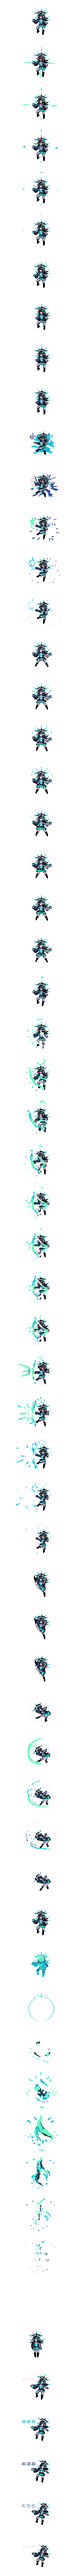
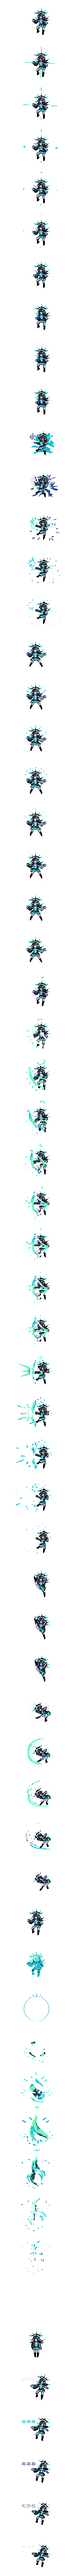
what

Changed region(s): [[0.3916, 0.7188, 0.6928, 0.875], [0.3916, 0.25, 0.6627, 0.375]]

diff --git a/NPCs/Bosses/GothiviaTheSun/GOS/GothiviaIyx.cs b/NPCs/Bosses/GothiviaTheSun/GOS/GothiviaIyx.cs
@@ -148,7 +148,7 @@ namespace Stellamod.NPCs.Bosses.GothiviaTheSun.GOS
             // DisplayName.SetDefault("Verlia of The Moon");
 
             Main.npcFrameCount[Type] = 61;
-            NPCID.Sets.TrailCacheLength[NPC.type] = 24;
+            NPCID.Sets.TrailCacheLength[NPC.type] = 32;
             NPCID.Sets.TrailingMode[NPC.type] = 3;
 
             // Add this in for bosses that have a summon item, requires corresponding code in the item (See MinionBossSummonItem.cs)
@@ -260,13 +260,13 @@ namespace Stellamod.NPCs.Bosses.GothiviaTheSun.GOS
                     ChargeTrailOpacity = 1;
             }
 
-            Color color = Color.OrangeRed;
+            Color color = Color.Lerp(Color.Turquoise, Color.RoyalBlue, completionRatio);
             return color * ChargeTrailOpacity * (1f - completionRatio);
         }
 
         public float WidthFunctionCharge(float completionRatio)
         {
-            return (((NPC.width * NPC.scale) * 2) / 0.75f * (1f - completionRatio)) * 0.4f;
+            return (((NPC.width * NPC.scale) * 2) / 0.75f * (1f - completionRatio)) * 1.5f;
         }
 
         public PrimDrawer TrailDrawer { get; private set; } = null;
@@ -276,12 +276,12 @@ namespace Stellamod.NPCs.Bosses.GothiviaTheSun.GOS
 
             if (TrailDrawer == null)
             {
-                TrailDrawer = new PrimDrawer(WidthFunctionCharge, ColorFunctionCharge, GameShaders.Misc["VampKnives:BasicTrail"]);
+                TrailDrawer = new PrimDrawer(WidthFunctionCharge, ColorFunctionCharge, TrailRegistry.FireVertexShader);
             }
 
-            GameShaders.Misc["VampKnives:BasicTrail"].SetShaderTexture(TrailRegistry.WaterTrail);
+            TrailRegistry.FireVertexShader.SetShaderTexture(TrailRegistry.WaterTrail);
             Vector2 size = new Vector2(166, 96);
-            TrailDrawer.DrawPrims(NPC.oldPos, size * 0.8f - screenPos, 155);
+            TrailDrawer.DrawPrims(NPC.oldPos, size * 0.5f - screenPos, 155);
 
 
             Player player = Main.player[NPC.target];
@@ -309,13 +309,13 @@ namespace Stellamod.NPCs.Bosses.GothiviaTheSun.GOS
             if (ThreeQ && !FourQ && !NoWings)
             {
                 Vector2 drawPosition = NPC.Center - screenPos;
-                Vector2 origin = new Vector2(74, 74);
+                Vector2 origin = new Vector2(83, 48);
                 Texture2D syliaWingsTexture = ModContent.Request<Texture2D>("Stellamod/NPCs/Bosses/GothiviaTheSun/GOS/Gwings3Q").Value;
                 int wingFrameSpeed = 1;
                 int wingFrameCount = 60;
                 spriteBatch.Draw(syliaWingsTexture, drawPosition,
                     syliaWingsTexture.AnimationFrame(ref _wingFrameCounter, ref _wingFrameTick, wingFrameSpeed, wingFrameCount, true),
-                    drawColor, 0f, origin, 2f, effects, 0f);
+                    drawColor, NPC.rotation, origin, 2f, effects, 0f);
 
             }
 
@@ -323,13 +323,13 @@ namespace Stellamod.NPCs.Bosses.GothiviaTheSun.GOS
             if (FourQ && !ThreeQ && !NoWings)
             {
                 Vector2 drawPosition = NPC.Center - screenPos;
-                Vector2 origin = new Vector2(83, 68);
+                Vector2 origin = new Vector2(83, 48);
                 Texture2D syliaWingsTexture = ModContent.Request<Texture2D>("Stellamod/NPCs/Bosses/GothiviaTheSun/GOS/Gwings4Q").Value;
                 int wingFrameSpeed = 1;
                 int wingFrameCount = 60;
                 spriteBatch.Draw(syliaWingsTexture, drawPosition,
                     syliaWingsTexture.AnimationFrame(ref _wingFrameCounter, ref _wingFrameTick, wingFrameSpeed, wingFrameCount, true),
-                    drawColor, 0f, origin, 2f, effects, 0f);
+                    drawColor, NPC.rotation, origin, 2f, effects, 0f);
 
             }
 
@@ -386,57 +386,57 @@ namespace Stellamod.NPCs.Bosses.GothiviaTheSun.GOS
 
                 case ActionState.ReallyStartIrr:
                     rect = new(0, 32 * 146, 206, 1 * 146);
-                    spriteBatch.Draw(texture, NPC.position - screenPos - originalHitbox, texture.AnimationFrame(ref frameCounter, ref frameTick, 8, 1, rect), drawColor, 0f, Vector2.Zero, 1f, effects, 0f);
+                    spriteBatch.Draw(texture, NPC.Center - screenPos, texture.AnimationFrame(ref frameCounter, ref frameTick, 8, 1, rect), drawColor, 0f, Vector2.Zero, 1f, effects, 0f);
                     break;
 
                 case ActionState.StartIrr:
                     rect = new(0, 32 * 146, 206, 1 * 146);
-                    spriteBatch.Draw(texture, NPC.position - screenPos - originalHitbox, texture.AnimationFrame(ref frameCounter, ref frameTick, 8, 1, rect), drawColor, 0f, Vector2.Zero, 1f, effects, 0f);
+                    spriteBatch.Draw(texture, NPC.Center - screenPos, texture.AnimationFrame(ref frameCounter, ref frameTick, 8, 1, rect), drawColor, 0f, Vector2.Zero, 1f, effects, 0f);
                     break;
 
                 case ActionState.HideIrr:
                     rect = new(0, 32 * 146, 206, 1 * 146);
-                    spriteBatch.Draw(texture, NPC.position - screenPos - originalHitbox, texture.AnimationFrame(ref frameCounter, ref frameTick, 8, 1, rect), drawColor, 0f, Vector2.Zero, 1f, effects, 0f);
+                    spriteBatch.Draw(texture, NPC.Center - screenPos, texture.AnimationFrame(ref frameCounter, ref frameTick, 8, 1, rect), drawColor, 0f, Vector2.Zero, 1f, effects, 0f);
                     break;
 
                 case ActionState.Blastout:
                     rect = new(0, 18 * 146, 206, 5 * 146);
-                    spriteBatch.Draw(texture, NPC.position - screenPos - originalHitbox, texture.AnimationFrame(ref frameCounter, ref frameTick, 8, 5, rect), drawColor, 0f, Vector2.Zero, 1f, effects, 0f);
+                    spriteBatch.Draw(texture, NPC.Center - screenPos, texture.AnimationFrame(ref frameCounter, ref frameTick, 8, 5, rect), drawColor, 0f, Vector2.Zero, 1f, effects, 0f);
                     break;
 
                 case ActionState.FallingBlast:
                     rect = new(0, 24 * 146, 206, 1 * 146);
-                    spriteBatch.Draw(texture, NPC.position - screenPos - originalHitbox, texture.AnimationFrame(ref frameCounter, ref frameTick, 8, 1, rect), drawColor, 0f, Vector2.Zero, 1f, effects, 0f);
+                    spriteBatch.Draw(texture, NPC.Center - screenPos, texture.AnimationFrame(ref frameCounter, ref frameTick, 8, 1, rect), drawColor, 0f, Vector2.Zero, 1f, effects, 0f);
                     break;
 
                 case ActionState.STARTNODES:
                     rect = new(0, 32 * 146, 206, 1 * 146);
-                    spriteBatch.Draw(texture, NPC.position - screenPos - originalHitbox, texture.AnimationFrame(ref frameCounter, ref frameTick, 8, 1, rect), drawColor, 0f, Vector2.Zero, 1f, effects, 0f);
+                    spriteBatch.Draw(texture, NPC.Center - screenPos, texture.AnimationFrame(ref frameCounter, ref frameTick, 8, 1, rect), drawColor, 0f, Vector2.Zero, 1f, effects, 0f);
                     break;
 
                 case ActionState.STARTAXE:
                     rect = new(0, 32 * 146, 206, 1 * 146);
-                    spriteBatch.Draw(texture, NPC.position - screenPos - originalHitbox, texture.AnimationFrame(ref frameCounter, ref frameTick, 8, 1, rect), drawColor, 0f, Vector2.Zero, 1f, effects, 0f);
+                    spriteBatch.Draw(texture, NPC.Center - screenPos, texture.AnimationFrame(ref frameCounter, ref frameTick, 8, 1, rect), drawColor, 0f, Vector2.Zero, 1f, effects, 0f);
                     break;
 
                 case ActionState.STARTLASER:
                     rect = new(0, 32 * 146, 206, 1 * 146);
-                    spriteBatch.Draw(texture, NPC.position - screenPos - originalHitbox, texture.AnimationFrame(ref frameCounter, ref frameTick, 8, 1, rect), drawColor, 0f, Vector2.Zero, 1f, effects, 0f);
+                    spriteBatch.Draw(texture, NPC.Center - screenPos, texture.AnimationFrame(ref frameCounter, ref frameTick, 8, 1, rect), drawColor, 0f, Vector2.Zero, 1f, effects, 0f);
                     break;
 
                 case ActionState.STARTSPIKE:
                     rect = new(0, 32 * 146, 206, 1 * 146);
-                    spriteBatch.Draw(texture, NPC.position - screenPos - originalHitbox, texture.AnimationFrame(ref frameCounter, ref frameTick, 8, 1, rect), drawColor, 0f, Vector2.Zero, 1f, effects, 0f);
+                    spriteBatch.Draw(texture, NPC.Center - screenPos, texture.AnimationFrame(ref frameCounter, ref frameTick, 8, 1, rect), drawColor, 0f, Vector2.Zero, 1f, effects, 0f);
                     break;
 
                 case ActionState.CallHavoc:
                     rect = new(0, 1 * 146, 206, 17 * 146);
-                    spriteBatch.Draw(texture, NPC.position - screenPos - originalHitbox, texture.AnimationFrame(ref frameCounter, ref frameTick, 4, 17, rect), drawColor, 0f, Vector2.Zero, 1f, effects, 0f);
+                    spriteBatch.Draw(texture, NPC.Center - screenPos, texture.AnimationFrame(ref frameCounter, ref frameTick, 4, 17, rect), drawColor, 0f, Vector2.Zero, 1f, effects, 0f);
                     break;
 
                 case ActionState.LandIrr:
                     rect = new(0, 26 * 146, 206, 5 * 146);
-                    spriteBatch.Draw(texture, NPC.position - screenPos - originalHitbox, texture.AnimationFrame(ref frameCounter, ref frameTick, 8, 5, rect), drawColor, 0f, Vector2.Zero, 1f, effects, 0f);
+                    spriteBatch.Draw(texture, NPC.Center - screenPos, texture.AnimationFrame(ref frameCounter, ref frameTick, 8, 5, rect), drawColor, 0f, Vector2.Zero, 1f, effects, 0f);
                     break;
 
 
@@ -455,99 +455,99 @@ namespace Stellamod.NPCs.Bosses.GothiviaTheSun.GOS
 
                 case ActionState.ReallyStartGoth:
                     rect = new(0, 16 * 96, 166, 7 * 96);
-                    spriteBatch.Draw(texture, NPC.position - screenPos - originalHitbox, texture.AnimationFrame(ref frameCounter,  ref frameTick, 7, 7, rect), drawColor, NPC.rotation, NPC.frame.Size() / 2, 2f, effects, 0f);
+                    spriteBatch.Draw(texture, NPC.Center - screenPos, texture.AnimationFrame(ref frameCounter,  ref frameTick, 7, 7, rect), drawColor, NPC.rotation, NPC.frame.Size() / 2, 2f, effects, 0f);
                     break;
 
 
 
                 case ActionState.StartGoth:
                     rect = new(0, 16 * 96, 166, 7 * 96);
-                    spriteBatch.Draw(texture, NPC.position - screenPos - originalHitbox, texture.AnimationFrame(ref frameCounter,  ref frameTick, 7, 7, rect), drawColor, NPC.rotation, NPC.frame.Size() / 2, 2f, effects, 0f);
+                    spriteBatch.Draw(texture, NPC.Center - screenPos, texture.AnimationFrame(ref frameCounter,  ref frameTick, 7, 7, rect), drawColor, NPC.rotation, NPC.frame.Size() / 2, 2f, effects, 0f);
                     break;
 
                 case ActionState.Desperation:
                     rect = new(0, 16 * 96, 166, 7 * 96);
-                    spriteBatch.Draw(texture, NPC.position - screenPos - originalHitbox, texture.AnimationFrame(ref frameCounter, ref frameTick, 5, 7, rect), drawColor, NPC.rotation, NPC.frame.Size() / 2, 2f, effects, 0f);
+                    spriteBatch.Draw(texture, NPC.Center - screenPos, texture.AnimationFrame(ref frameCounter, ref frameTick, 5, 7, rect), drawColor, NPC.rotation, NPC.frame.Size() / 2, 2f, effects, 0f);
                     break;
 
                 case ActionState.Suns1:
                     rect = new(0, 16 * 96, 166, 7 * 96);
-                    spriteBatch.Draw(texture, NPC.position - screenPos - originalHitbox, texture.AnimationFrame(ref frameCounter, ref frameTick, 8, 7, rect), drawColor, NPC.rotation, NPC.frame.Size() / 2, 2f, effects, 0f);
+                    spriteBatch.Draw(texture, NPC.Center - screenPos, texture.AnimationFrame(ref frameCounter, ref frameTick, 8, 7, rect), drawColor, NPC.rotation, NPC.frame.Size() / 2, 2f, effects, 0f);
                     break;
 
                 case ActionState.Suns2:
                     rect = new(0, 16 * 96, 166, 7 * 96);
-                    spriteBatch.Draw(texture, NPC.position - screenPos - originalHitbox, texture.AnimationFrame(ref frameCounter, ref frameTick, 8, 7, rect), drawColor, NPC.rotation, NPC.frame.Size() / 2, 2f, effects, 0f);
+                    spriteBatch.Draw(texture, NPC.Center - screenPos, texture.AnimationFrame(ref frameCounter, ref frameTick, 8, 7, rect), drawColor, NPC.rotation, NPC.frame.Size() / 2, 2f, effects, 0f);
                     break;
 
                 case ActionState.SunExplosionCharge1:
                     rect = new(0, 16 * 96, 166, 7 * 96);
-                    spriteBatch.Draw(texture, NPC.position - screenPos - originalHitbox, texture.AnimationFrame(ref frameCounter, ref frameTick, 8, 7, rect), drawColor, NPC.rotation, NPC.frame.Size() / 2, 2f, effects, 0f);
+                    spriteBatch.Draw(texture, NPC.Center - screenPos, texture.AnimationFrame(ref frameCounter, ref frameTick, 8, 7, rect), drawColor, NPC.rotation, NPC.frame.Size() / 2, 2f, effects, 0f);
                     break;
 
                 case ActionState.SunExplosionCharge2:
                     rect = new(0, 16 * 96, 166, 7 * 96);
-                    spriteBatch.Draw(texture, NPC.position - screenPos - originalHitbox, texture.AnimationFrame(ref frameCounter, ref frameTick, 8, 7, rect), drawColor, NPC.rotation, NPC.frame.Size() / 2, 2f, effects, 0f);
+                    spriteBatch.Draw(texture, NPC.Center - screenPos, texture.AnimationFrame(ref frameCounter, ref frameTick, 8, 7, rect), drawColor, NPC.rotation, NPC.frame.Size() / 2, 2f, effects, 0f);
                     break;
 
                 case ActionState.Invisible:
                     rect = new(0, 54 * 96, 166, 1 * 96);
-                    spriteBatch.Draw(texture, NPC.position - screenPos - originalHitbox, texture.AnimationFrame(ref frameCounter, ref frameTick, 200, 1, rect), drawColor, NPC.rotation, NPC.frame.Size() / 2, 2f, effects, 0f);
+                    spriteBatch.Draw(texture, NPC.Center - screenPos, texture.AnimationFrame(ref frameCounter, ref frameTick, 200, 1, rect), drawColor, NPC.rotation, NPC.frame.Size() / 2, 2f, effects, 0f);
                     break;
 
                 case ActionState.BonfireLeft:
                     rect = new(0, 54 * 96, 166, 1 * 96);
-                    spriteBatch.Draw(texture, NPC.position - screenPos - originalHitbox, texture.AnimationFrame(ref frameCounter, ref frameTick, 200, 1, rect), drawColor, NPC.rotation, NPC.frame.Size() / 2, 2f, effects, 0f);
+                    spriteBatch.Draw(texture, NPC.Center - screenPos, texture.AnimationFrame(ref frameCounter, ref frameTick, 200, 1, rect), drawColor, NPC.rotation, NPC.frame.Size() / 2, 2f, effects, 0f);
                     break;
 
                 case ActionState.BonfireRight:
                     rect = new(0, 54 * 96, 166, 1 * 96);
-                    spriteBatch.Draw(texture, NPC.position - screenPos - originalHitbox, texture.AnimationFrame(ref frameCounter, ref frameTick, 200, 1, rect), drawColor, NPC.rotation, NPC.frame.Size() / 2, 2f, effects, 0f);
+                    spriteBatch.Draw(texture, NPC.Center - screenPos, texture.AnimationFrame(ref frameCounter, ref frameTick, 200, 1, rect), drawColor, NPC.rotation, NPC.frame.Size() / 2, 2f, effects, 0f);
                     break;
 
                 case ActionState.TheZoomer:
                     rect = new(0, 55 * 96, 166, 1 * 96);
-                    spriteBatch.Draw(texture, NPC.position - screenPos - originalHitbox, texture.AnimationFrame(ref frameCounter, ref frameTick, 400, 1, rect), drawColor, NPC.rotation, NPC.frame.Size() / 2, 2f, effects, 0f);
+                    spriteBatch.Draw(texture, NPC.Center - screenPos, texture.AnimationFrame(ref frameCounter, ref frameTick, 400, 1, rect), drawColor, NPC.rotation, NPC.frame.Size() / 2, 2f, effects, 0f);
                     break;
 
                 case ActionState.BoostBounce1:
                     rect = new(0, 16 * 96, 166, 7 * 96);
-                    spriteBatch.Draw(texture, NPC.position - screenPos - originalHitbox, texture.AnimationFrame(ref frameCounter, ref frameTick, 5, 7, rect), drawColor, NPC.rotation, NPC.frame.Size() / 2, 2f, effects, 0f);
+                    spriteBatch.Draw(texture, NPC.Center - screenPos, texture.AnimationFrame(ref frameCounter, ref frameTick, 5, 7, rect), drawColor, NPC.rotation, NPC.frame.Size() / 2, 2f, effects, 0f);
                     break;
 
                 case ActionState.BoostBounce2:
                     rect = new(0, 57 * 96, 166, 4 * 96);
-                    spriteBatch.Draw(texture, NPC.position - screenPos - originalHitbox, texture.AnimationFrame(ref frameCounter, ref frameTick, 8, 4, rect), drawColor, NPC.rotation, NPC.frame.Size() / 2, 2f, effects, 0f);
+                    spriteBatch.Draw(texture, NPC.Center - screenPos, texture.AnimationFrame(ref frameCounter, ref frameTick, 8, 4, rect), drawColor, NPC.rotation, NPC.frame.Size() / 2, 2f, effects, 0f);
                     break;
 
                 case ActionState.BoostBounce3:
                     rect = new(0, 38 * 96, 166, 7 * 96);
-                    spriteBatch.Draw(texture, NPC.position - screenPos - originalHitbox, texture.AnimationFrame(ref frameCounter,  ref frameTick, 5, 7, rect), drawColor, NPC.rotation, NPC.frame.Size() / 2, 2f, effects, 0f);
+                    spriteBatch.Draw(texture, NPC.Center - screenPos, texture.AnimationFrame(ref frameCounter,  ref frameTick, 5, 7, rect), drawColor, NPC.rotation, NPC.frame.Size() / 2, 2f, effects, 0f);
                     break;
 
                 case ActionState.Kick:
                     rect = new(0, 38 * 96, 166, 7 * 96);
-                    spriteBatch.Draw(texture, NPC.position - screenPos - originalHitbox, texture.AnimationFrame(ref frameCounter,  ref frameTick, 7, 7, rect), drawColor, NPC.rotation, NPC.frame.Size() / 2, 2f, effects, 0f);
+                    spriteBatch.Draw(texture, NPC.Center - screenPos, texture.AnimationFrame(ref frameCounter,  ref frameTick, 7, 7, rect), drawColor, NPC.rotation, NPC.frame.Size() / 2, 2f, effects, 0f);
                     break;
 
                 case ActionState.StandCuss:
                     rect = new(0, 57 * 96, 166, 4 * 96);
-                    spriteBatch.Draw(texture, NPC.position - screenPos - originalHitbox, texture.AnimationFrame(ref frameCounter, ref frameTick, 8, 4, rect), drawColor, NPC.rotation, NPC.frame.Size() / 2, 2f, effects, 0f);
+                    spriteBatch.Draw(texture, NPC.Center - screenPos, texture.AnimationFrame(ref frameCounter, ref frameTick, 8, 4, rect), drawColor, NPC.rotation, NPC.frame.Size() / 2, 2f, effects, 0f);
                     break;
 
                 case ActionState.Dichotamy:
                     rect = new(0, 1 * 96, 166, 14 * 96);
-                    spriteBatch.Draw(texture, NPC.position - screenPos - originalHitbox, texture.AnimationFrame(ref frameCounter, ref frameTick, 8, 14, rect), drawColor, NPC.rotation, NPC.frame.Size() / 2, 2f, effects, 0f);
+                    spriteBatch.Draw(texture, NPC.Center - screenPos, texture.AnimationFrame(ref frameCounter, ref frameTick, 8, 14, rect), drawColor, NPC.rotation, NPC.frame.Size() / 2, 2f, effects, 0f);
                     break;
 
                 case ActionState.Archery:
                     rect = new(0, 24 * 96, 166, 13 * 96);
-                    spriteBatch.Draw(texture, NPC.position - screenPos - originalHitbox, texture.AnimationFrame(ref frameCounter, ref frameTick, 5, 13, rect), drawColor, NPC.rotation, NPC.frame.Size() / 2, 2f, effects, 0f);
+                    spriteBatch.Draw(texture, NPC.Center - screenPos, texture.AnimationFrame(ref frameCounter, ref frameTick, 5, 13, rect), drawColor, NPC.rotation, NPC.frame.Size() / 2, 2f, effects, 0f);
                     break;
 
                 case ActionState.ExplodeOut:
                     rect = new(0, 46 * 96, 166, 9 * 96);
-                    spriteBatch.Draw(texture, NPC.position - screenPos - originalHitbox, texture.AnimationFrame(ref frameCounter, ref frameTick, 8, 9, rect), drawColor, NPC.rotation, NPC.frame.Size() / 2, 2f, effects, 0f);
+                    spriteBatch.Draw(texture, NPC.Center - screenPos, texture.AnimationFrame(ref frameCounter, ref frameTick, 8, 9, rect), drawColor, NPC.rotation, NPC.frame.Size() / 2, 2f, effects, 0f);
                     break;
             }
 
@@ -660,7 +660,7 @@ namespace Stellamod.NPCs.Bosses.GothiviaTheSun.GOS
                     counter++;
                     ThreeQ = false;
                     FourQ = true;
-                    DrawChargeTrail = true;
+                    DrawChargeTrail = false;
                     NPC.velocity.Y *= 0.96f;
                     BoostBoom1();
                     NPC.aiStyle = -1;
@@ -908,12 +908,12 @@ namespace Stellamod.NPCs.Bosses.GothiviaTheSun.GOS
             }
 
 
-            if (timer > 60 && timer < 320)
+            if (timer > 60 && timer < 440)
             {
                 NPC.rotation = NPC.velocity.ToRotation();
-                float movementSpeed = 32;
-                float size = 712;
-                float figureEightSpeed = 0.05f;
+                float movementSpeed = 40;
+                float size = 812;
+                float figureEightSpeed = 0.07f;
 
                 float t = timer * figureEightSpeed;
                 float scale = 2 / (3 - MathF.Cos(2 * t));
@@ -932,11 +932,12 @@ namespace Stellamod.NPCs.Bosses.GothiviaTheSun.GOS
                 NPC.velocity = targetVelocity;
             }
        
-            if (timer == 380)
+            if (timer == 480)
             {
                 NPC.velocity *= 0.3f;
                 ResetTimers();
                 State = ActionState.StartGoth;
+                NPC.rotation = 0;
             }
         }
 
